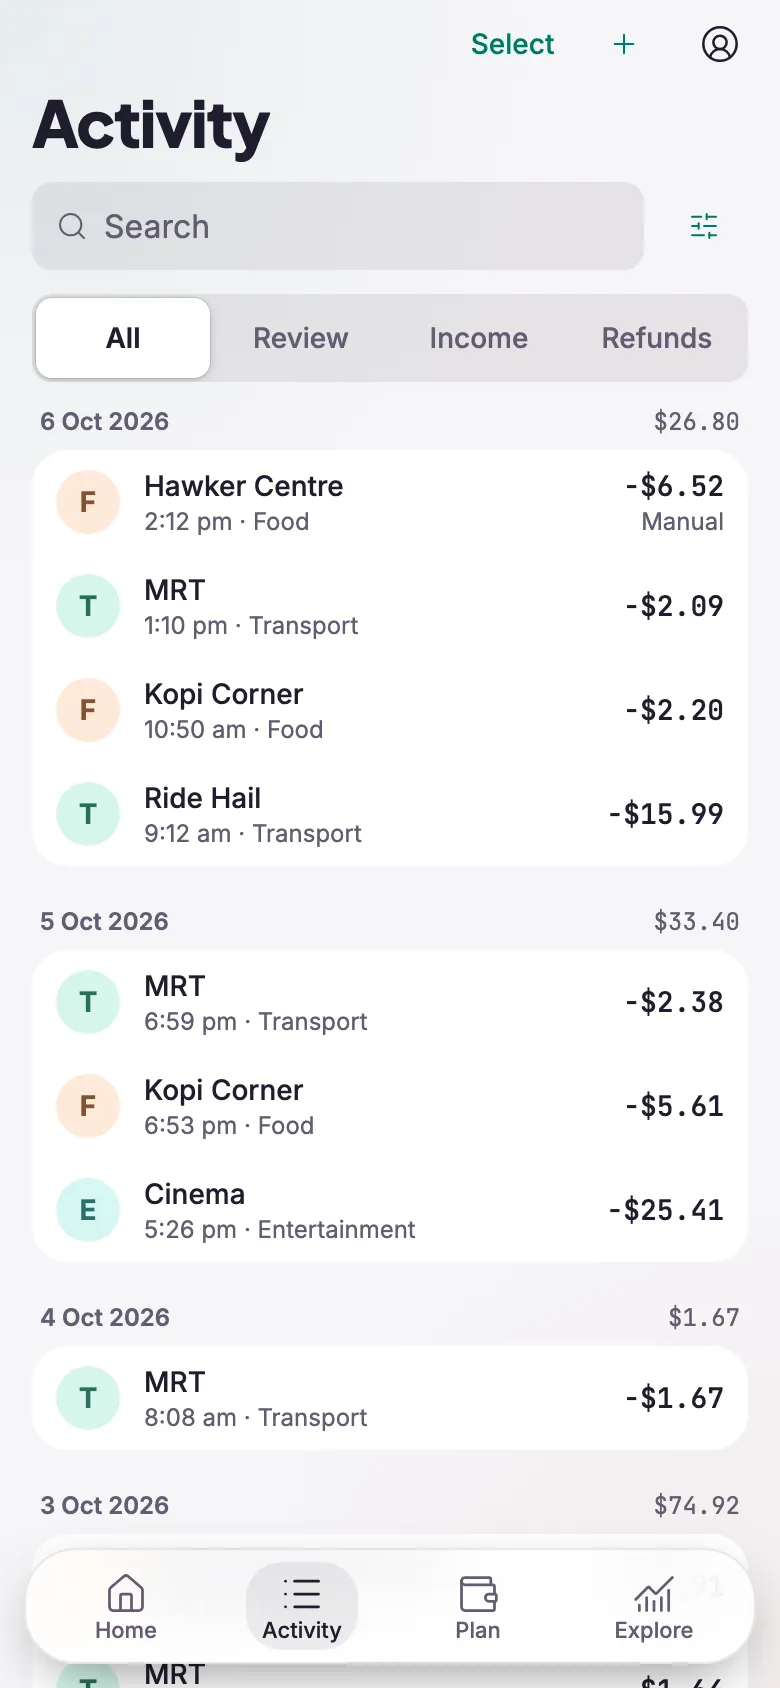
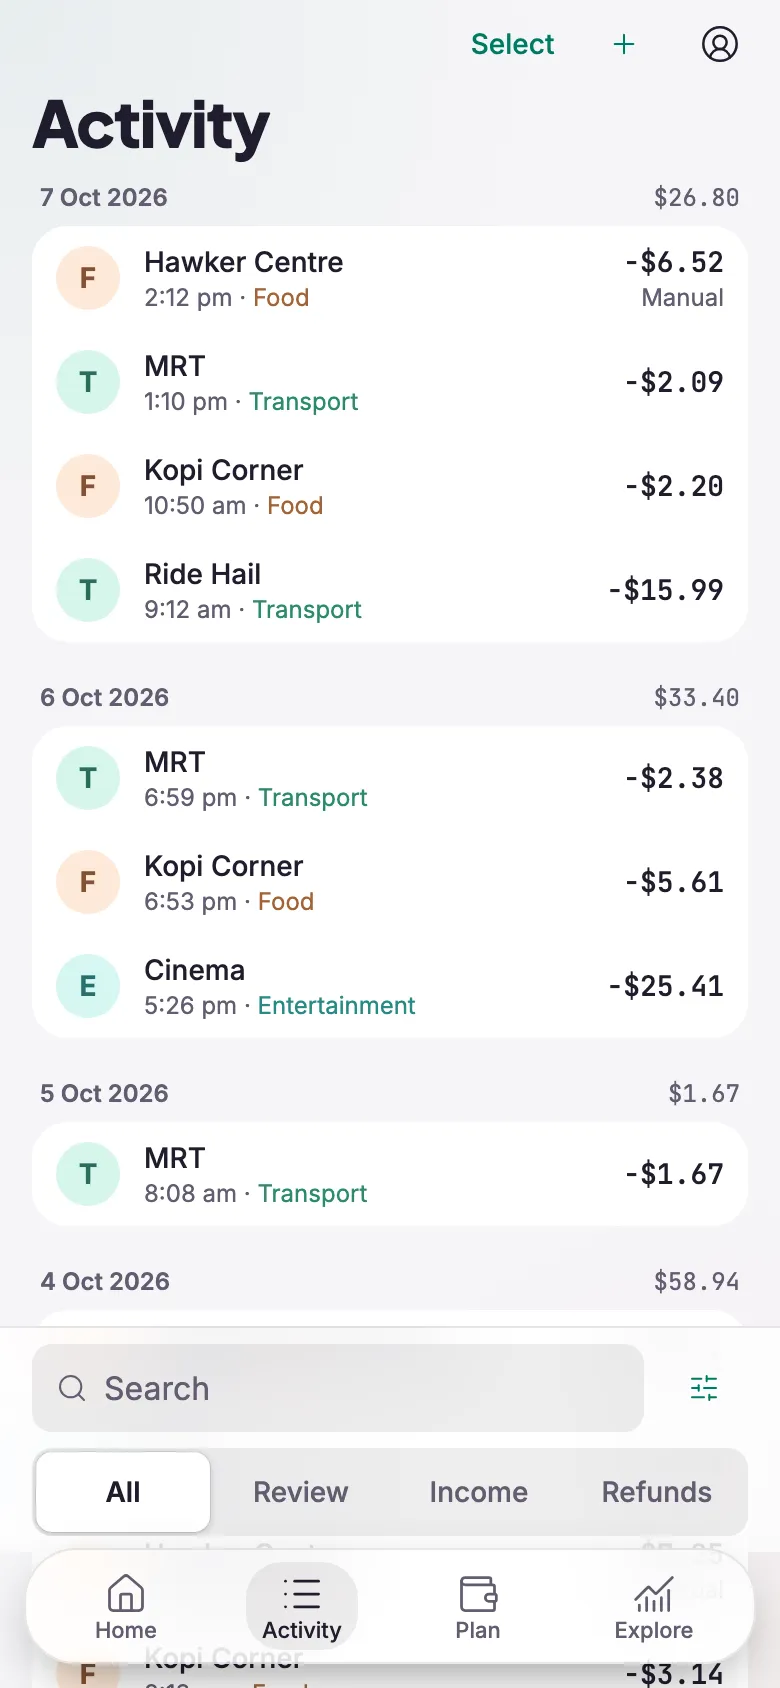
chore: recapture landing tour screens for the one-screen phone tabs
The product tour still showed the scrolling HIG phone pages. Recaptured
from the showcase account, with the tour's image descriptions and Home
copy updated to match. Explore now opens on its chart, so the capture no
longer taps into a section.

diff --git a/src/web/frontend/src/landing/ProductTour.tsx b/src/web/frontend/src/landing/ProductTour.tsx
@@ -22,9 +22,9 @@ interface Step {
 const STEPS: Step[] = [
   {
     id: 'home', eyebrow: 'Home', title: 'Know where the month stands',
-    body: 'Spending against your budget, what needs a look, and what is coming up, in one glance each morning.',
+    body: 'Spending against your budget, where it went, and what is coming up, on one screen each morning.',
     points: ['Every total opens the transactions behind it', 'Unsure amounts are labelled partial or estimated, never guessed', 'A daily digest on Telegram, if you want one'],
-    screen: { light: homeLight, dark: homeDark, alt: 'cashe Home: October spending against a budget, an all-caught-up check and this month’s income' },
+    screen: { light: homeLight, dark: homeDark, alt: 'cashe Home: October spending against a budget, the category mix, income and the next charge' },
   },
   {
     id: 'activity', eyebrow: 'Activity', title: 'Purchases write themselves down',
@@ -36,13 +36,13 @@ const STEPS: Step[] = [
     id: 'plan', eyebrow: 'Plan', title: 'See the month before it happens',
     body: 'A projection for the rest of the month, with a likely range, built from what you usually spend and what is scheduled.',
     points: ['Upcoming subscription charges on a calendar', 'Monthly and weekly budgets, savings goals and trips', 'Pause or dismiss a charge without touching your provider'],
-    screen: { light: planLight, dark: planDark, alt: 'cashe Plan: an estimated October projection, savings toward goals and upcoming charges' },
+    screen: { light: planLight, dark: planDark, alt: 'cashe Plan: an estimated October projection above the next 30 days of charges' },
   },
   {
     id: 'explore', eyebrow: 'Explore', title: 'Find the patterns',
     body: 'How spending moves over time, by category and by merchant, with the purchases that stand out.',
     points: ['Unusual purchases and first-time merchants', 'Income against spending, month by month', 'A 50/30/20 health score once the month has enough data'],
-    screen: { light: exploreLight, dark: exploreDark, alt: 'cashe Explore: spending over time by category, and income against spending by month' },
+    screen: { light: exploreLight, dark: exploreDark, alt: 'cashe Explore: the health score above spending over time by category' },
   },
 ];
 
